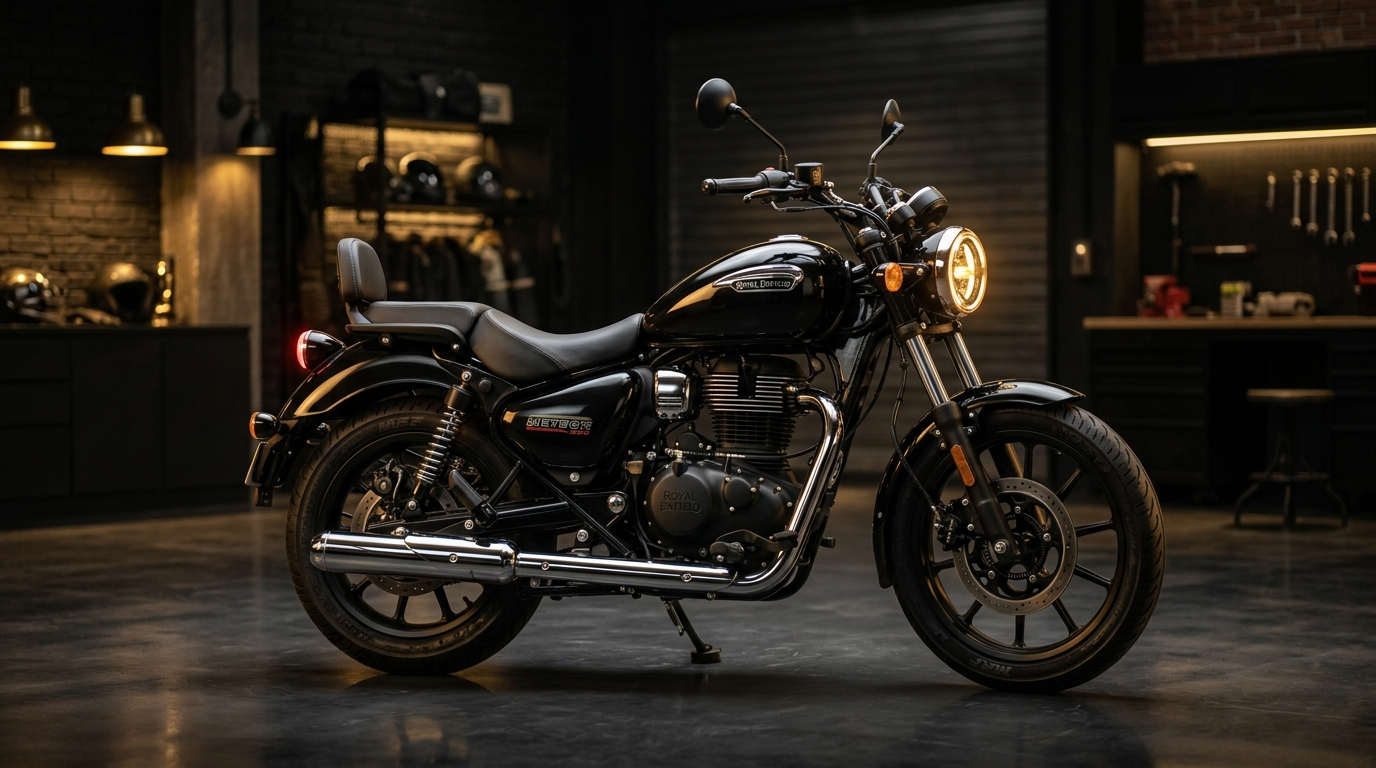
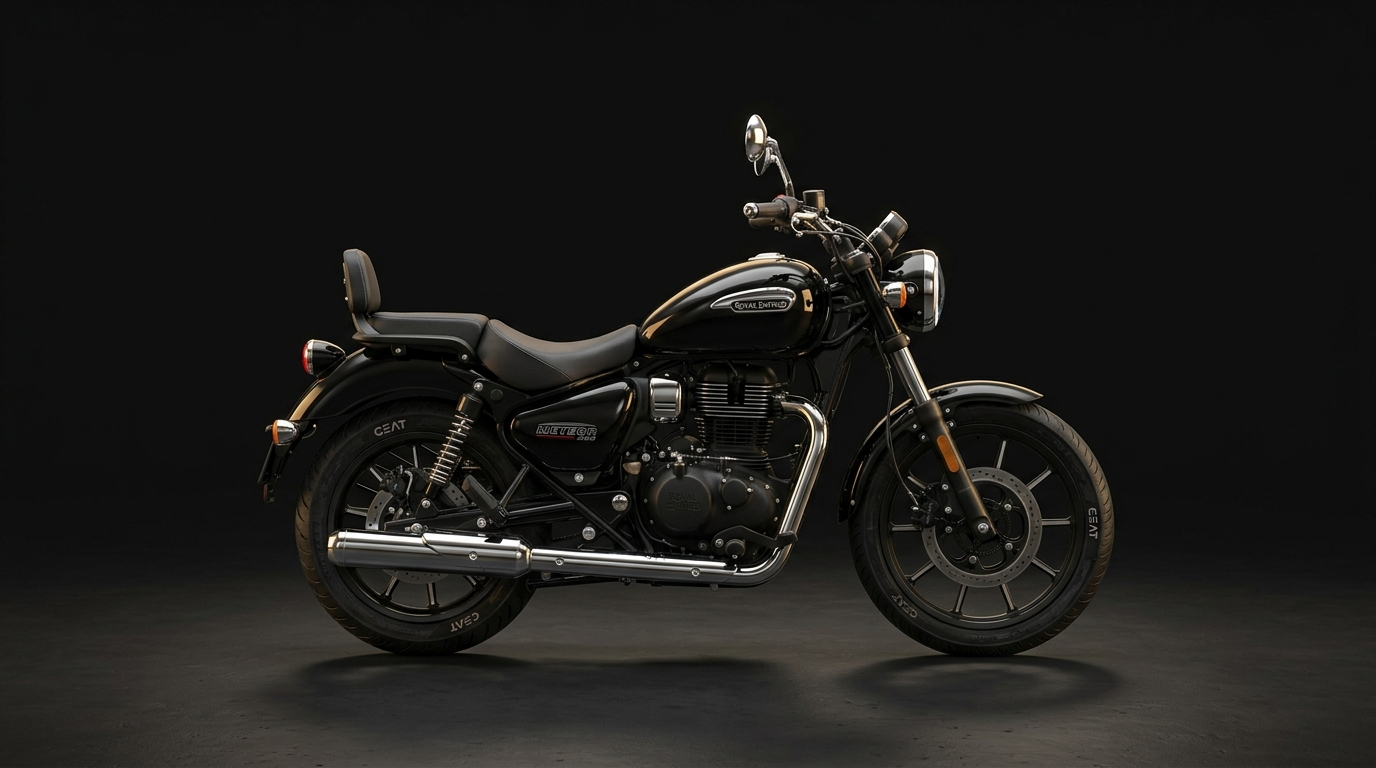
fix(mobile): show entire Meteor 350 centered without cropping using aspect-16/9 and object-contain

diff --git a/src/components/home/HeroSection.tsx b/src/components/home/HeroSection.tsx
@@ -8,20 +8,20 @@ export const HeroSection: React.FC = () => {
       {/* ─── DEDICATED MOBILE LAYOUT (< sm / 640px) ─── */}
       <div className="block sm:hidden w-full">
         {/* Motorcycle Visual Hero */}
-        <div className="relative w-full h-[220px] xs:h-[250px] overflow-hidden bg-[#0B0B0B]">
+        <div className="relative w-full aspect-[16/9] overflow-hidden bg-[#0B0B0B]">
           <img
             src="/images/hero-bike-mobile.jpg"
             alt="Royal Enfield Meteor 350 motorcycle at Chaudhari Auto Centre"
             fetchPriority="high"
             decoding="async"
-            className="w-full h-full object-cover object-center brightness-105 contrast-105"
+            className="w-full h-full object-contain object-center"
           />
           {/* Subtle directional fade at bottom into the content area */}
-          <div className="absolute inset-0 bg-gradient-to-t from-[#0B0B0B] via-transparent to-black/10 pointer-events-none" />
+          <div className="absolute inset-x-0 bottom-0 h-8 bg-gradient-to-t from-[#0B0B0B] to-transparent pointer-events-none" />
         </div>
 
         {/* Mobile Content Area */}
-        <div className="px-5 xs:px-6 pt-2 pb-4 flex flex-col">
+        <div className="px-5 xs:px-6 pt-1 pb-4 flex flex-col">
           {/* Eyebrow */}
           <p className="text-[#F5B900] text-xs font-bold uppercase tracking-[0.2em] mb-1.5">
             TRUSTED BIKE SERVICE SINCE 1994
@@ -31,7 +31,7 @@ export const HeroSection: React.FC = () => {
           <h1
             className="font-black uppercase tracking-tight text-white font-sans mb-2"
             style={{
-              fontSize: 'clamp(2.35rem, 11vw, 3.25rem)',
+              fontSize: 'clamp(2.2rem, 10.5vw, 3rem)',
               lineHeight: 0.96,
               letterSpacing: '-0.03em',
             }}
